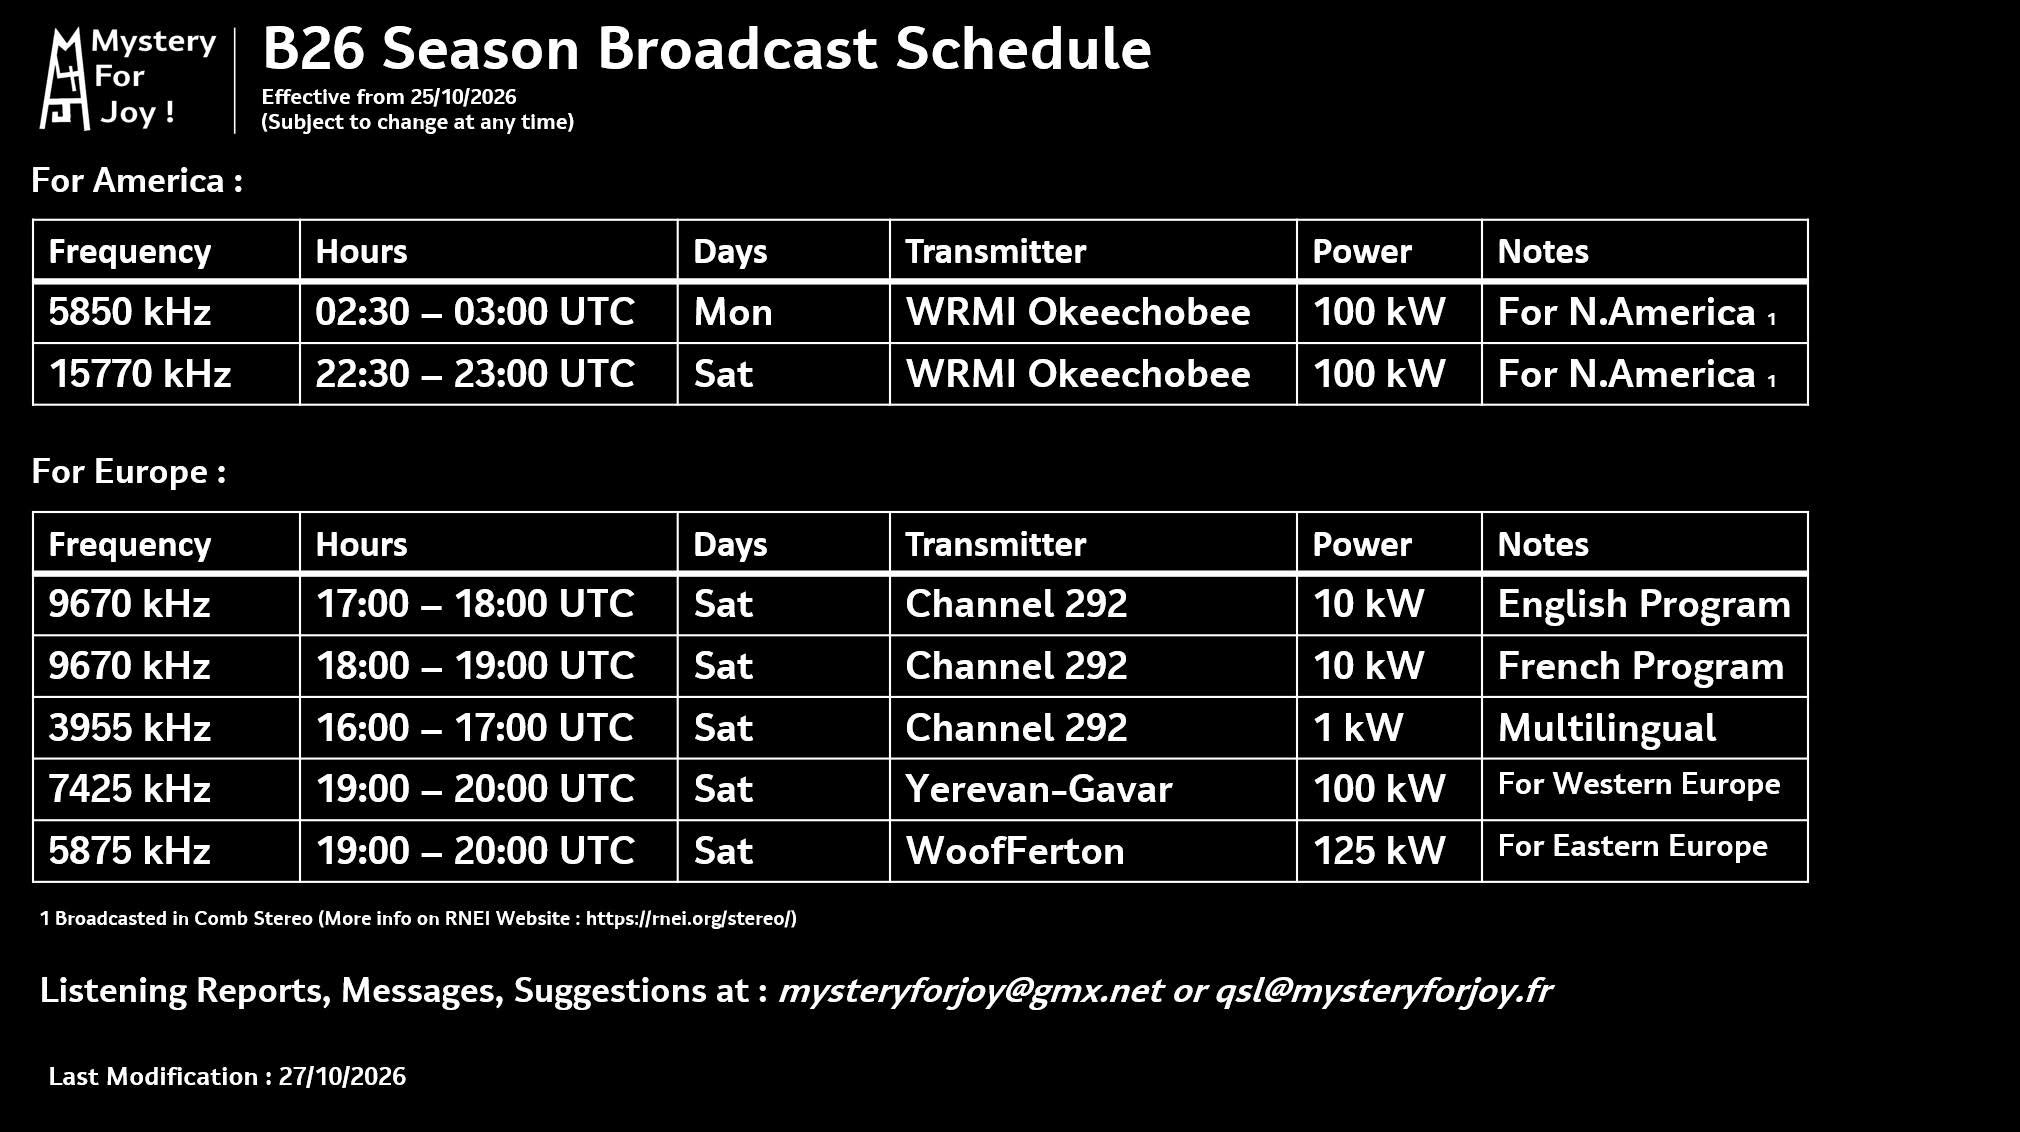
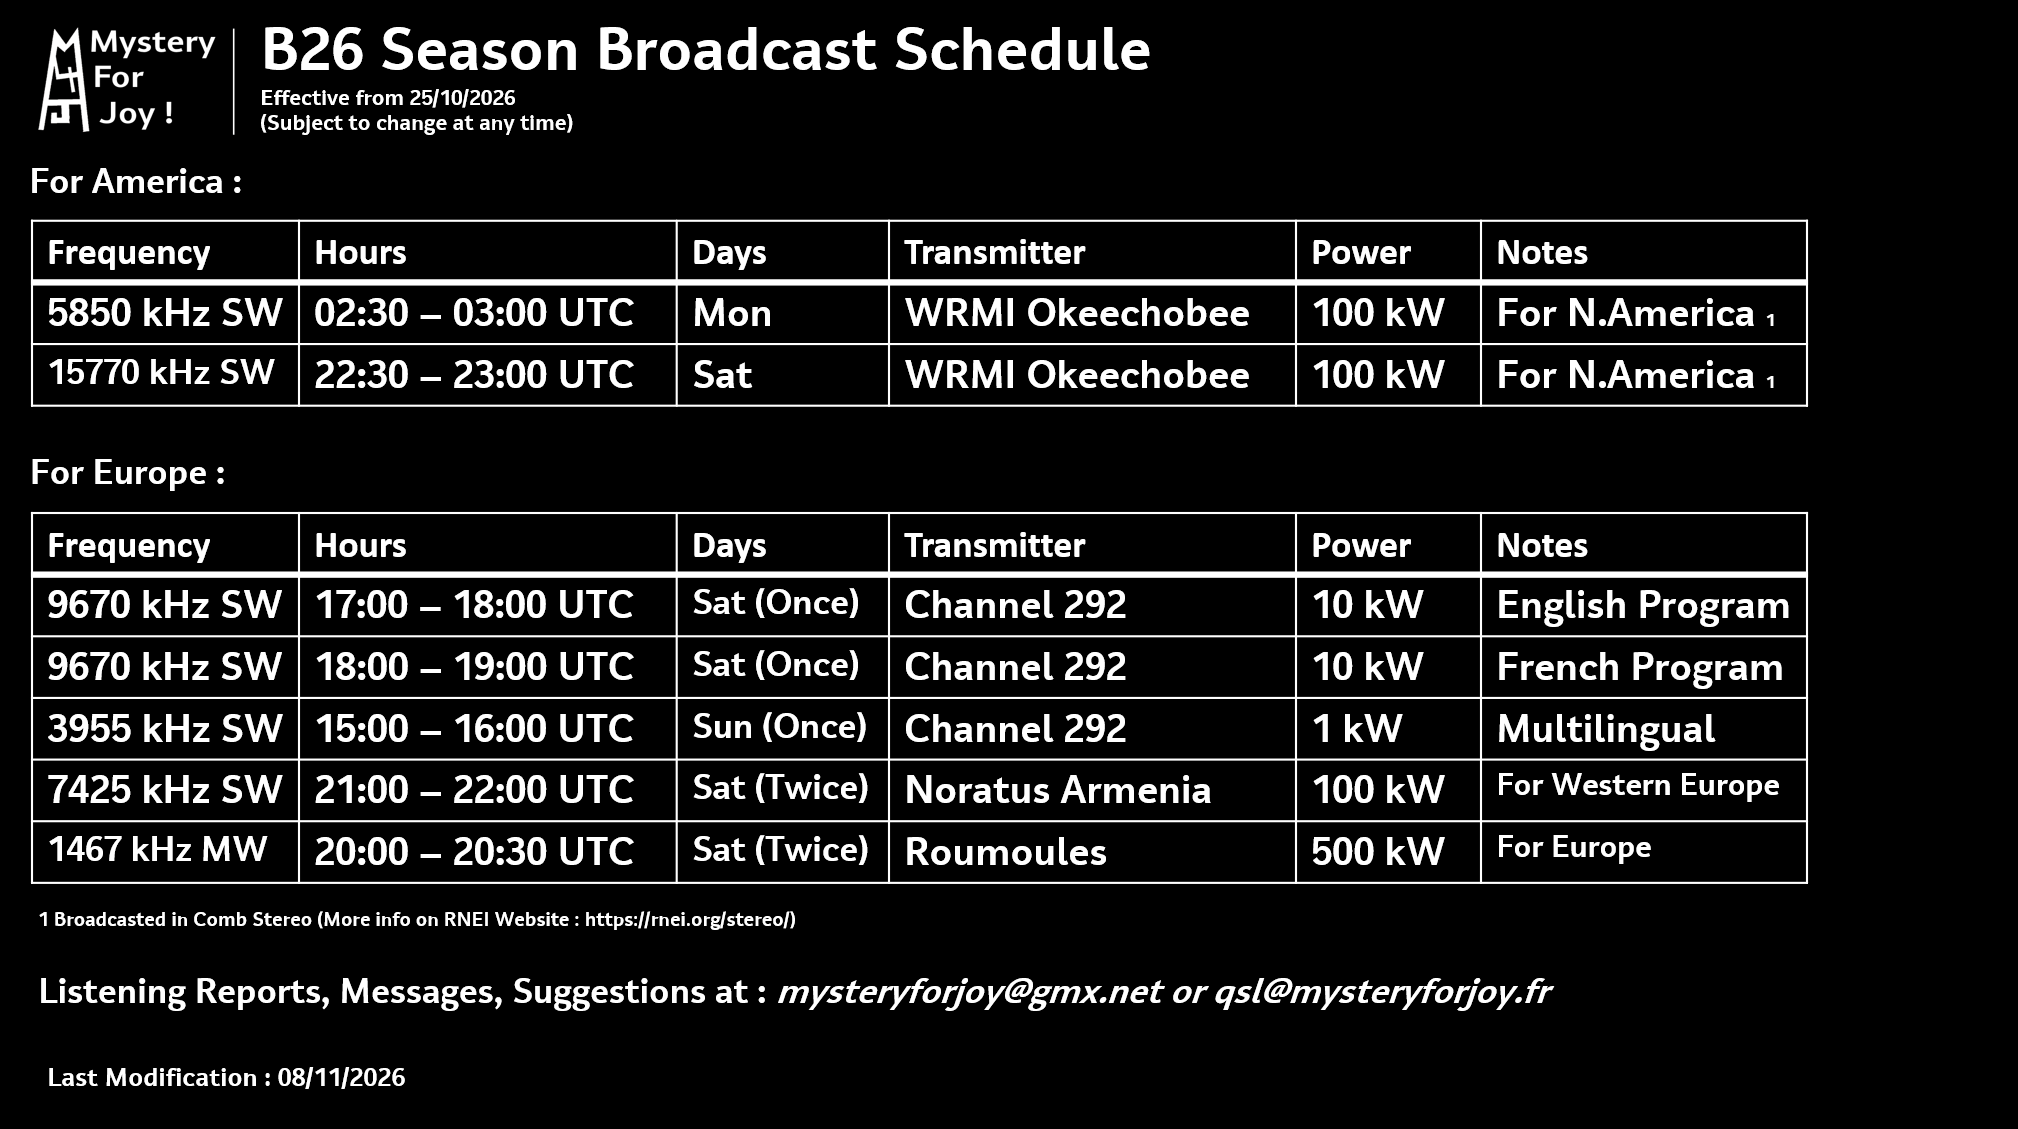
build - 0.5

diff --git a/script/index.html b/script/index.html
@@ -31,6 +31,13 @@
         </div>
         <span class="file-info">JavaScript</span>
       </div>
+      <div class="file-row">
+        <div class="file-name">
+          <svg class="file-icon" viewBox="0 0 16 16" aria-hidden="true"><path d="M3.75 1h5.69L14 5.56v8.69c0 .97-.78 1.75-1.75 1.75h-8.5A1.75 1.75 0 0 1 2 14.25v-11C2 2.03 2.78 1 3.75 1Zm5.5 1.5v3h3Zm-5.5 0a.25.25 0 0 0-.25.25v11c0 .14.11.25.25.25h8.5a.25.25 0 0 0 .25-.25V7h-3A1.75 1.75 0 0 1 7.75 5.25v-2.75Z"/></svg>
+          <a href="display.config.keams">display.config.keams</a>
+        </div>
+        <span class="file-info">Keafile</span>
+      </div>
     </section>
     <section class="preview-panel" aria-label="Script description">
       <div class="preview-heading">calendar.js</div>

diff --git a/images/schedule_m4j/index.html b/images/schedule_m4j/index.html
@@ -24,6 +24,12 @@
           <a href="latest.png">latest.png</a>
         </div><span class="file-info">215.4 KB</span>
       </div>
+      <div class="file-row">
+        <div class="file-name">
+          <svg class="file-icon" viewBox="0 0 16 16" aria-hidden="true"><path d="M3.75 1h5.69L14 5.56v8.69c0 .97-.78 1.75-1.75 1.75h-8.5A1.75 1.75 0 0 1 2 14.25v-11C2 2.03 2.78 1 3.75 1Zm5.5 1.5v3h3Zm-5.5 0a.25.25 0 0 0-.25.25v11c0 .14.11.25.25.25h8.5a.25.25 0 0 0 .25-.25V7h-3A1.75 1.75 0 0 1 7.75 5.25v-2.75Z"/></svg>
+          <a href="nov_1.png">nov_1.png</a>
+        </div><span class="file-info">215.4 KB</span>
+      </div>
     </section>
     <section class="preview-panel" aria-label="Image preview">
       <div class="preview-heading">latest.png</div>
